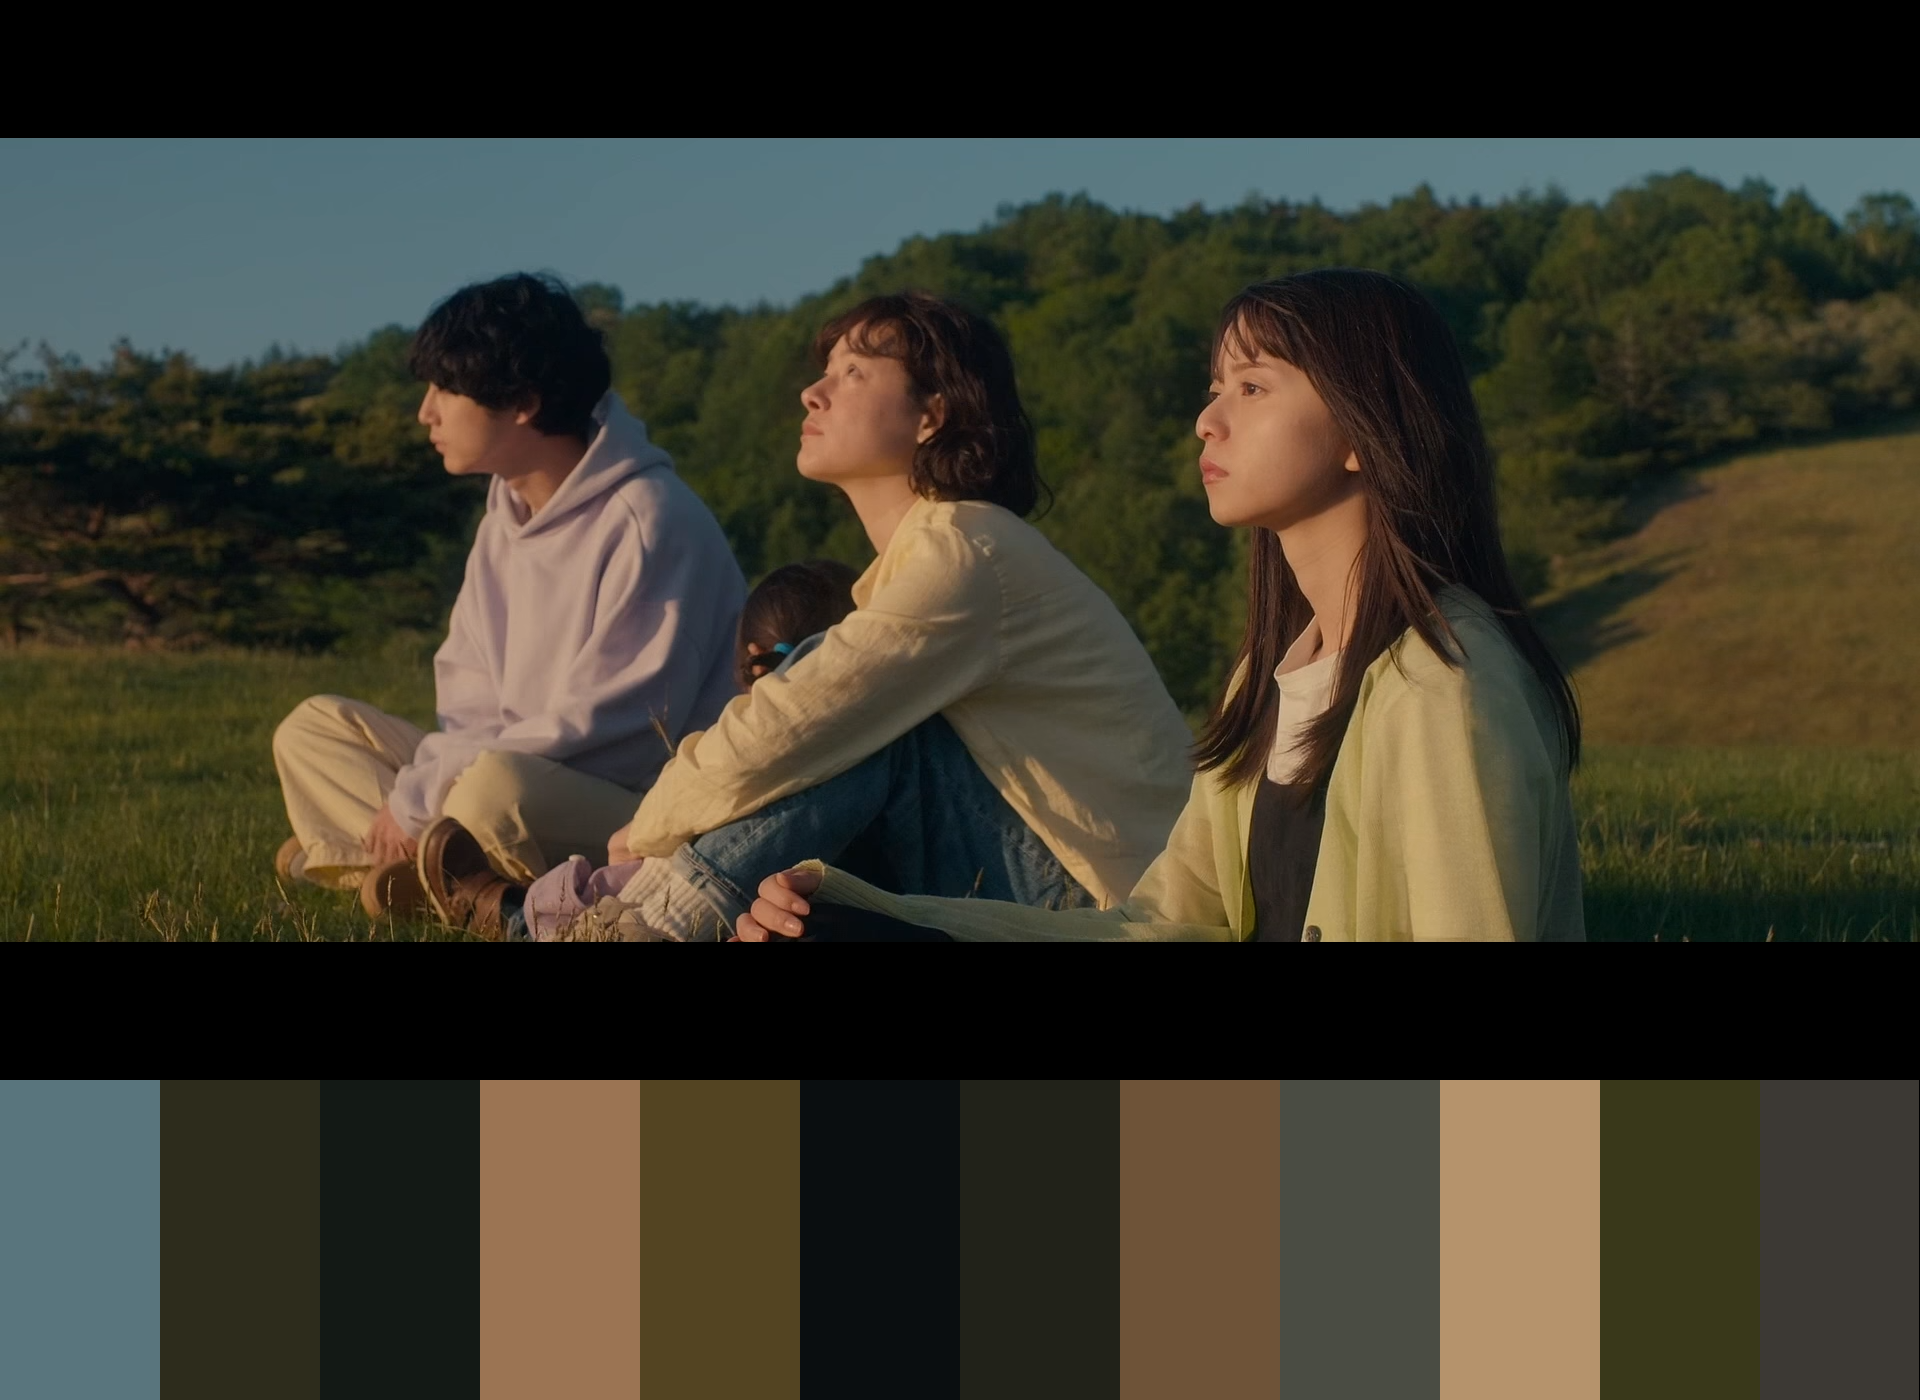
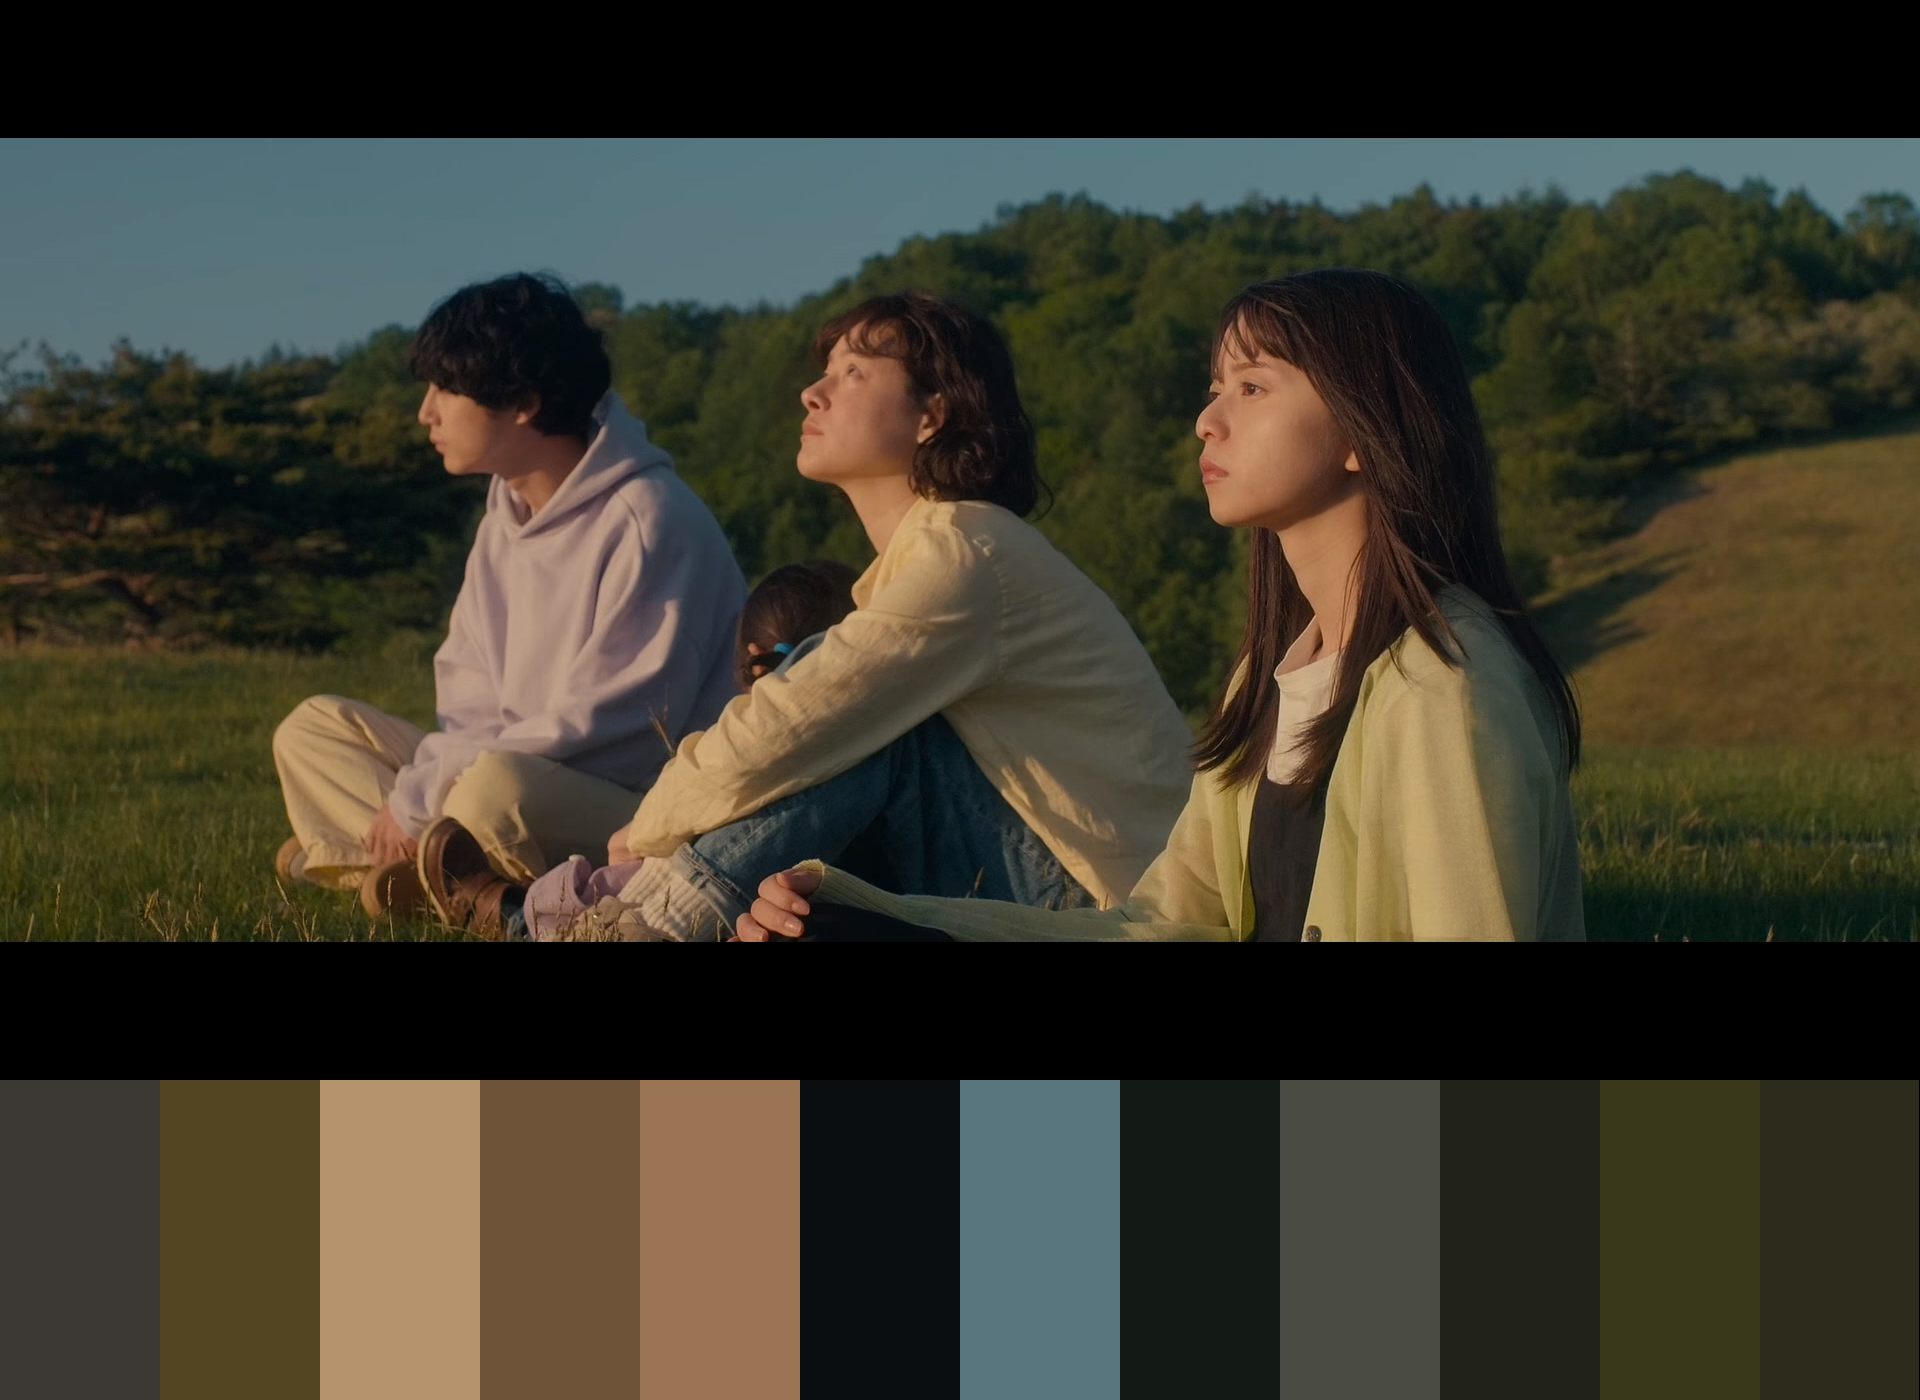
option to sort colors by hue

Changed region(s): [[0.0, 0.7679, 0.4375, 1.0], [0.5, 0.7679, 0.6875, 1.0], [0.75, 0.7679, 0.8438, 1.0]]

diff --git a/src/main.cpp b/src/main.cpp
@@ -39,6 +39,9 @@ int main(int argc, char** argv) {
       "--random", random,
       "Use random device to seed random number generator (seed parameter will be ignored)");
 
+  bool sort_colors = false;
+  app.add_flag("--sort_colors", sort_colors, "Sort colors in generated palette");
+
   bool dont_skip_black = false;
   app.add_flag("--dont_skip_black", dont_skip_black,
                "Will include black pixels in clustering when set to true");
@@ -104,7 +107,19 @@ int main(int argc, char** argv) {
   palette_image.drawImage(image, padding, padding);
 
   std::cout << "Clusters:\n";
-  const auto& clusters = clustering.get_clusters();
+  auto clusters = clustering.get_clusters();
+
+  if (sort_colors) {
+    std::sort(clusters.begin(), clusters.end(), [](const Color& color1, const Color& color2) {
+      const auto c1_oklab = color1.convertTo(ColorSpace::OKLAB);
+      const auto c2_oklab = color2.convertTo(ColorSpace::OKLAB);
+
+      const auto h1 = 0.5f + 0.5f * atan2f(-c1_oklab.g, -c1_oklab.b) / 3.14159265358979323846f;
+      const auto h2 = 0.5f + 0.5f * atan2f(-c2_oklab.g, -c2_oklab.b) / 3.14159265358979323846f;
+
+      return std::less<float>()(h1, h2);
+    });
+  }
 
   for (size_t cluster_idx = 0; cluster_idx < clusters.size(); ++cluster_idx) {
     const int swatch_x = std::ceil(padding + cluster_idx * (swatch_width + padding));

diff --git a/README.md b/README.md
@@ -7,7 +7,7 @@ Generating image palette using K-means clustering in color space. User provided 
 ```console
 $ cmake .
 $ make -j8
-$ ./palette -i images/im1.png --iters 50 -n 16
+$ ./palette -i images/im1.png --iters 50 -n 25 --padding 0 --sort_colors -o palette1.png
 ```
 
 ## Usage
@@ -26,6 +26,7 @@ Options:
   --bg TEXT                   Background color for generated visualization. Format: "r, g, b"
   --seed UINT                 Seed for random number generator
   --random                    Use random device to seed random number generator (seed parameter will be ignored)
+  --sort_colors               Sort colors in generated palette
   --dont_skip_black           Will include black pixels in clustering when set to true
   -o,--output TEXT            Output image
 ```
